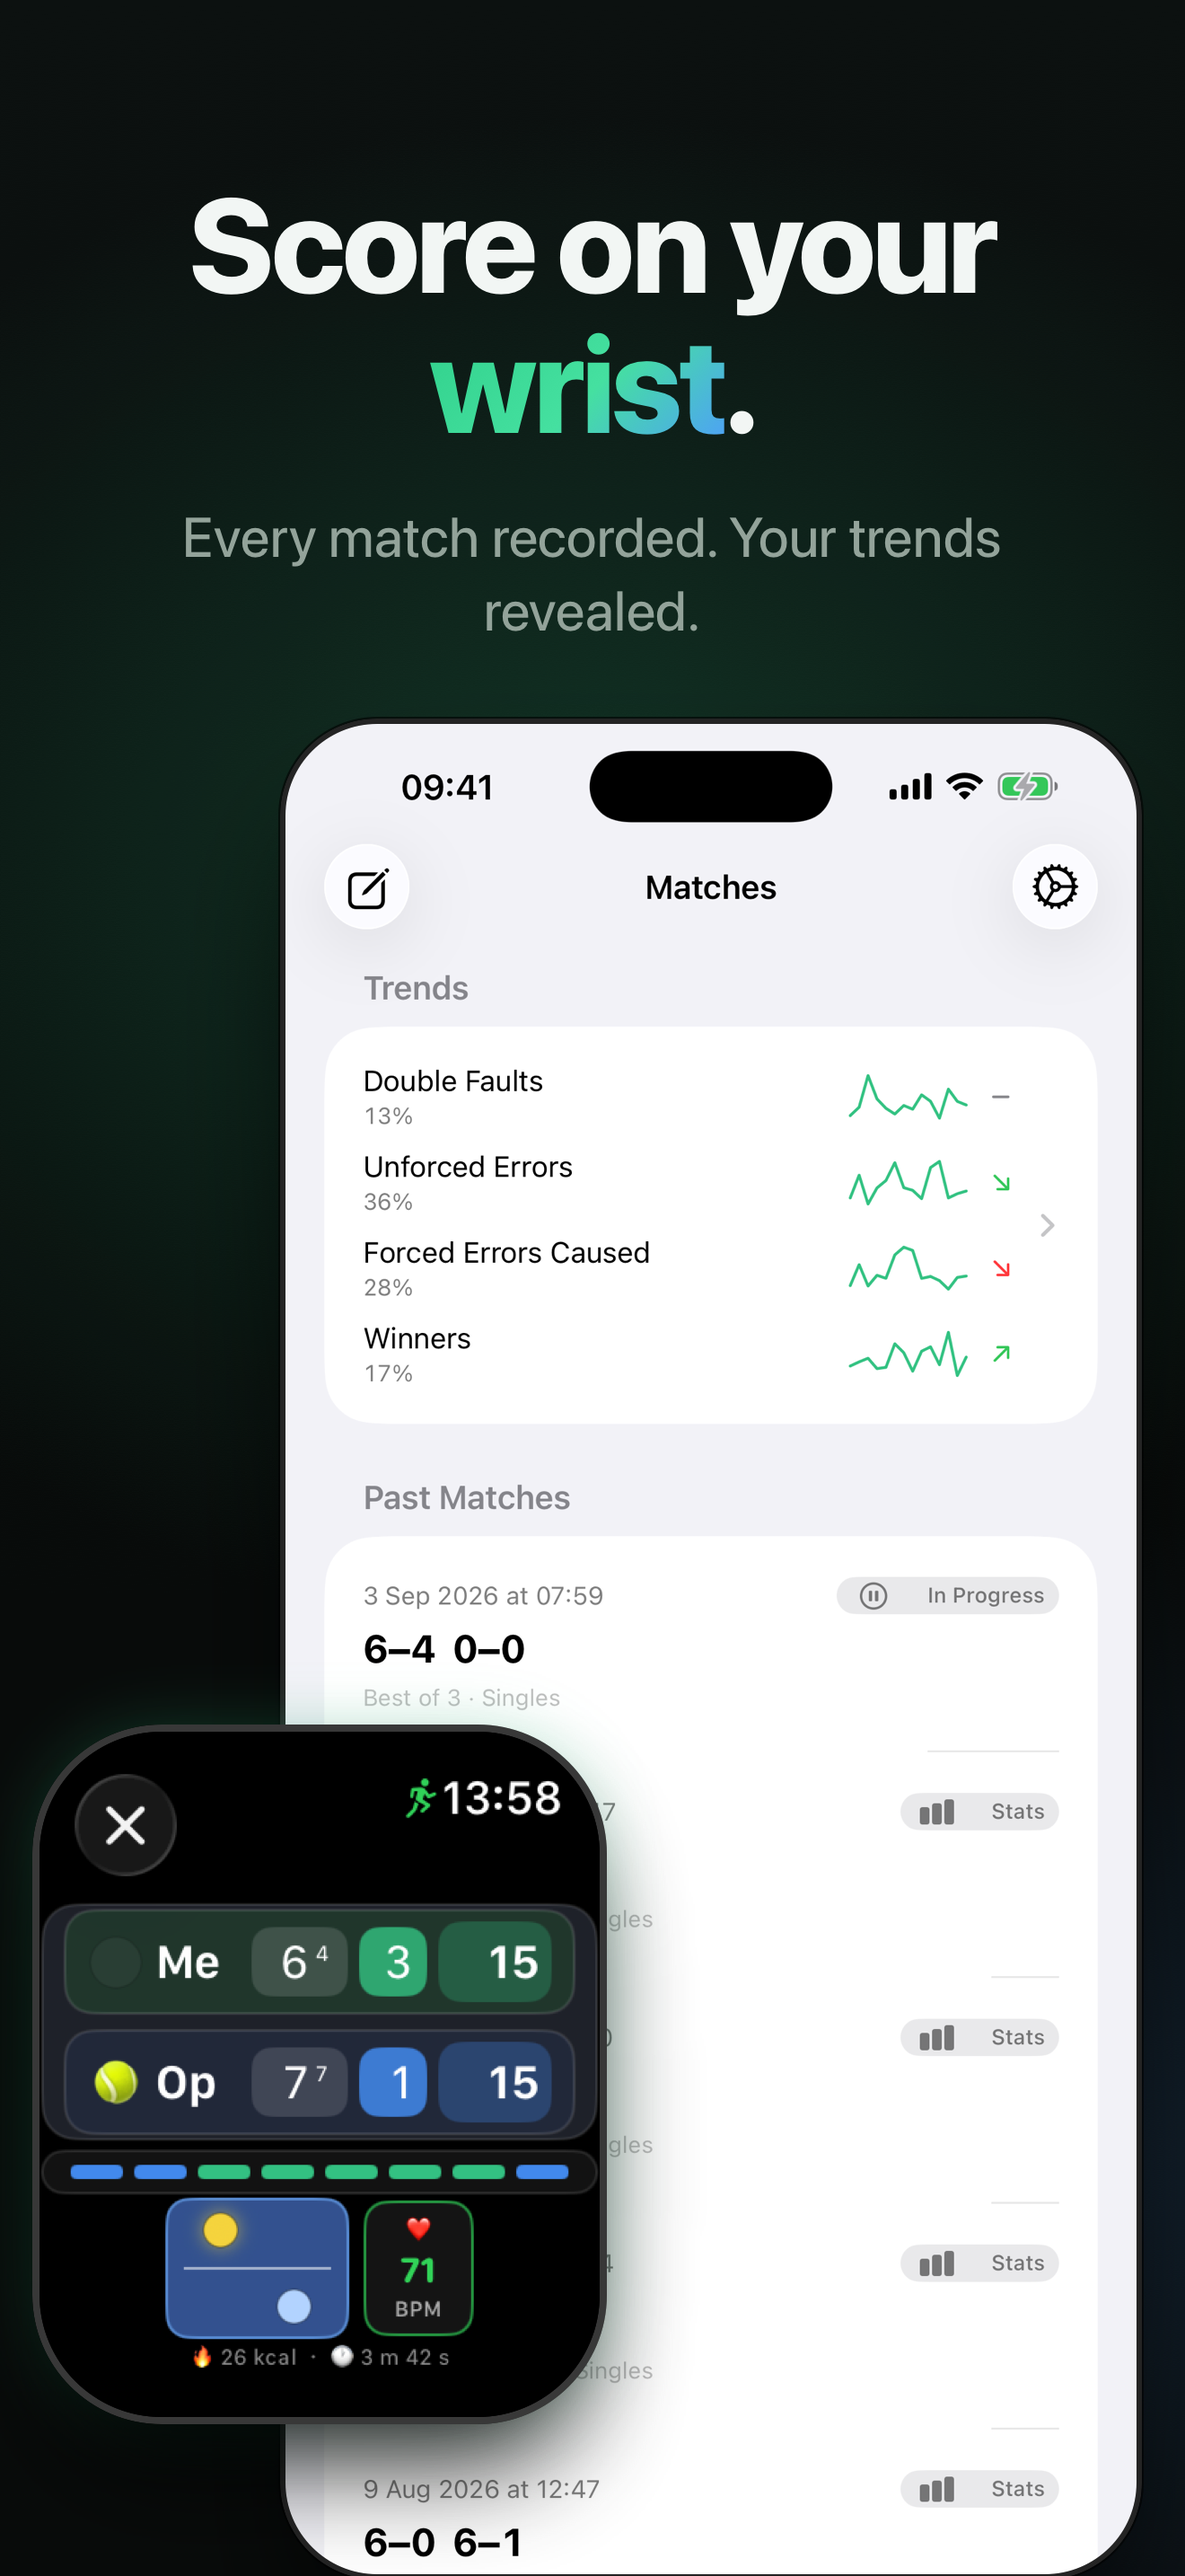
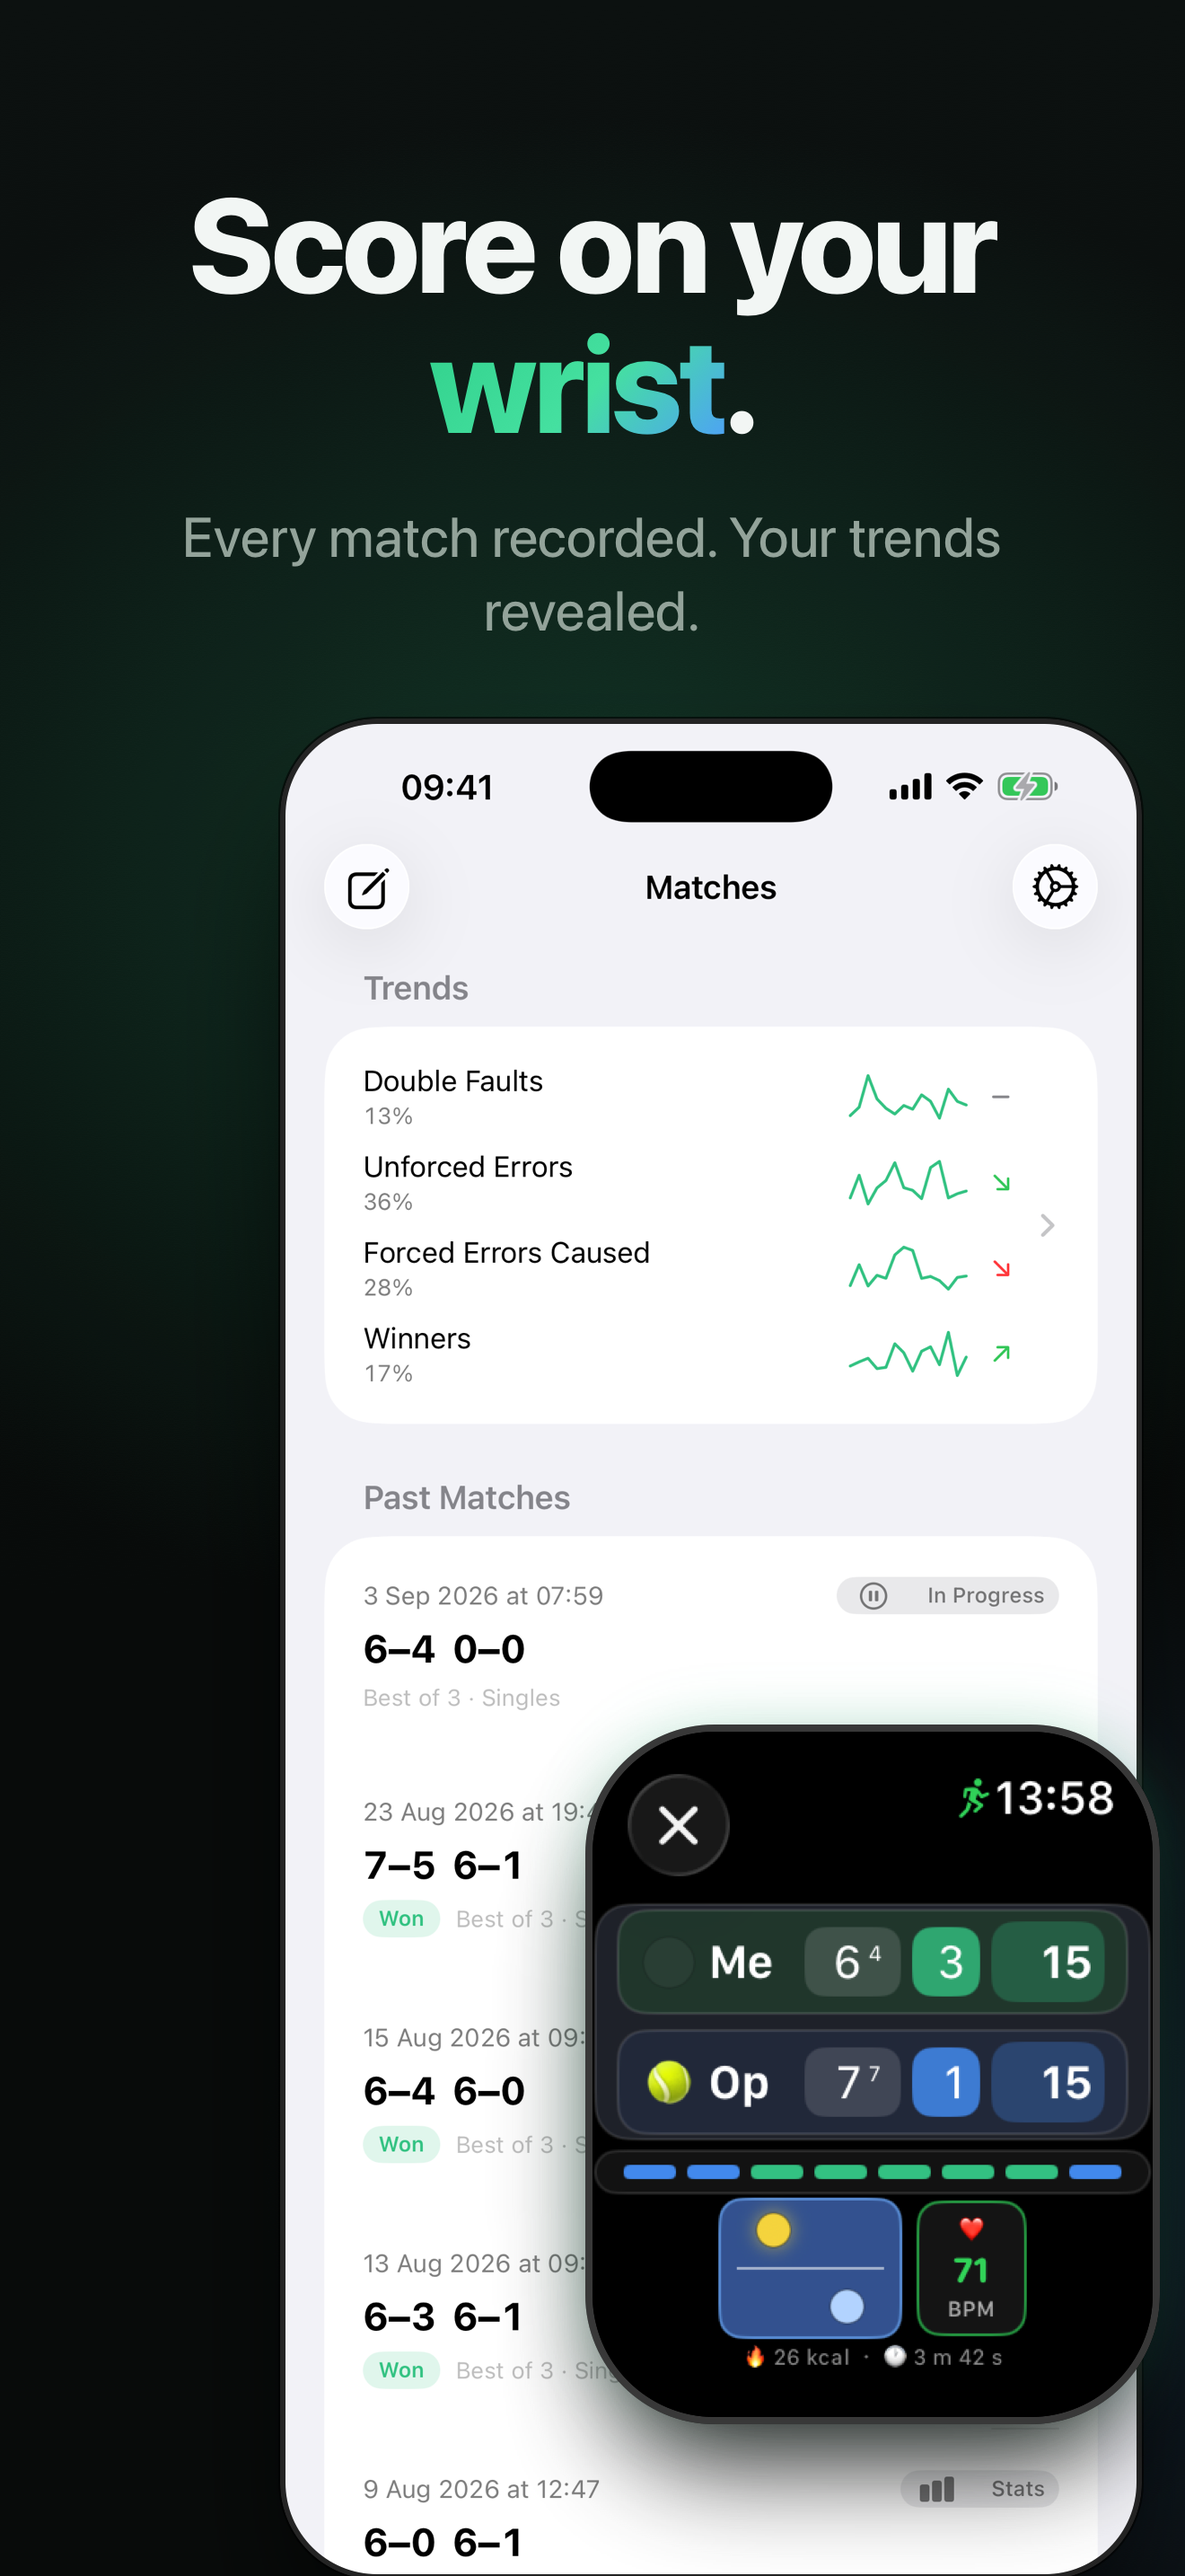
docs: reveal archive scores in marketing frame

Changed region(s): [[0.0, 0.6517, 0.9939, 0.993], [0.0311, 0.8999, 0.0621, 0.931]]

diff --git a/docs/app-store-screenshots/marketing/ad-1-watch-iphone.html b/docs/app-store-screenshots/marketing/ad-1-watch-iphone.html
@@ -24,7 +24,7 @@
   .watch-main {
     width: 320px;                /* -> 391px tall */
     top: 960px;
-    left: 18px;
+    right: 14px;
   }
 </style>
 </head>
